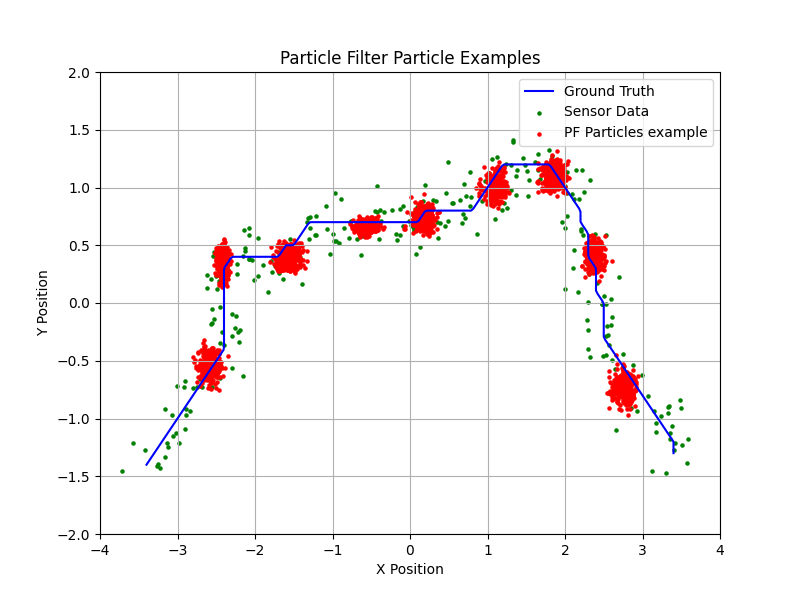
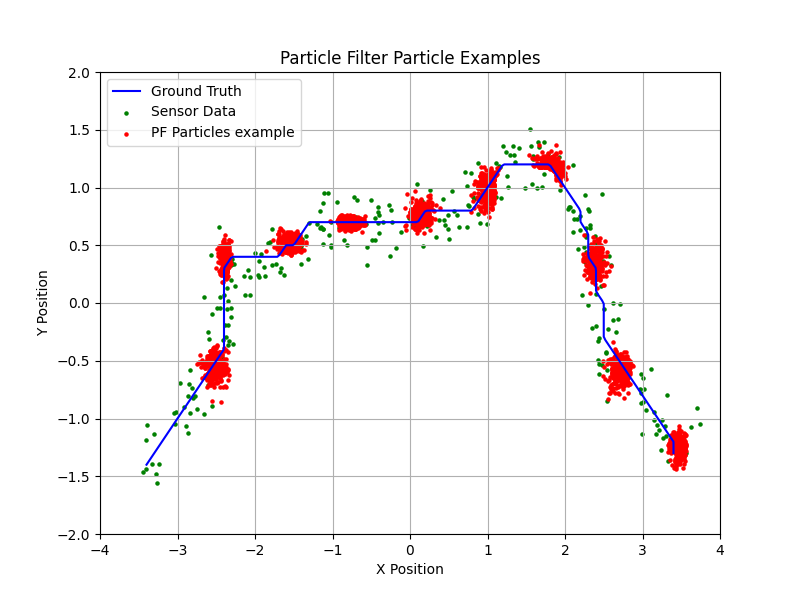
pf new figures

Changed region(s): [[0.1562, 0.12, 0.9062, 0.81], [0.1875, 0.12, 0.375, 0.24]]

diff --git a/pf.py b/pf.py
@@ -19,7 +19,7 @@ NUM_PARTICLES = 300 # number of particles for particle filter
 X_MAX = 8 # max x length for map
 Y_MAX = 4 # max y length for map
 ACTION_ONLY = False
-CHECK_COLLISION = False
+CHECK_COLLISION = True
 MAP = "pr2maze.json" 
 PATH = "path_maze.txt" 
 # MAP = "pr2empty.json"
